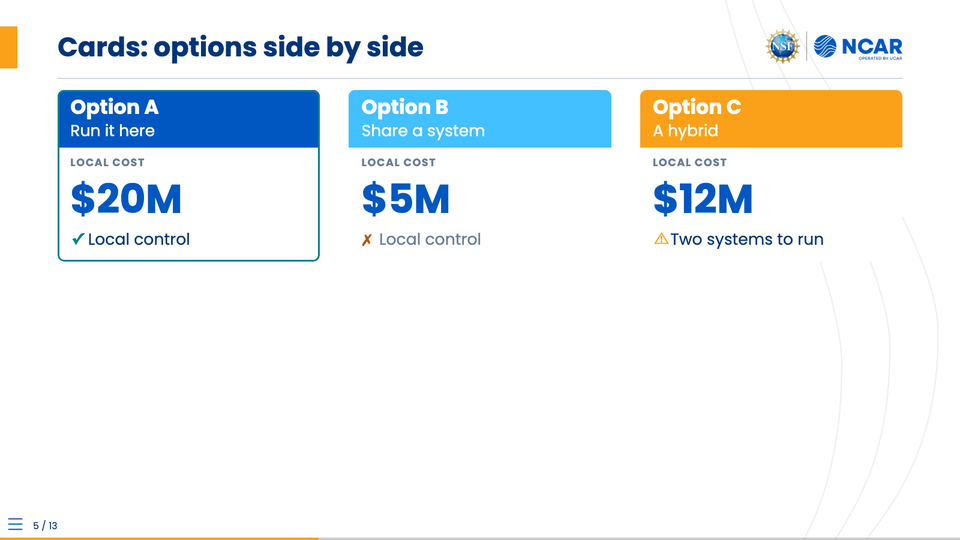
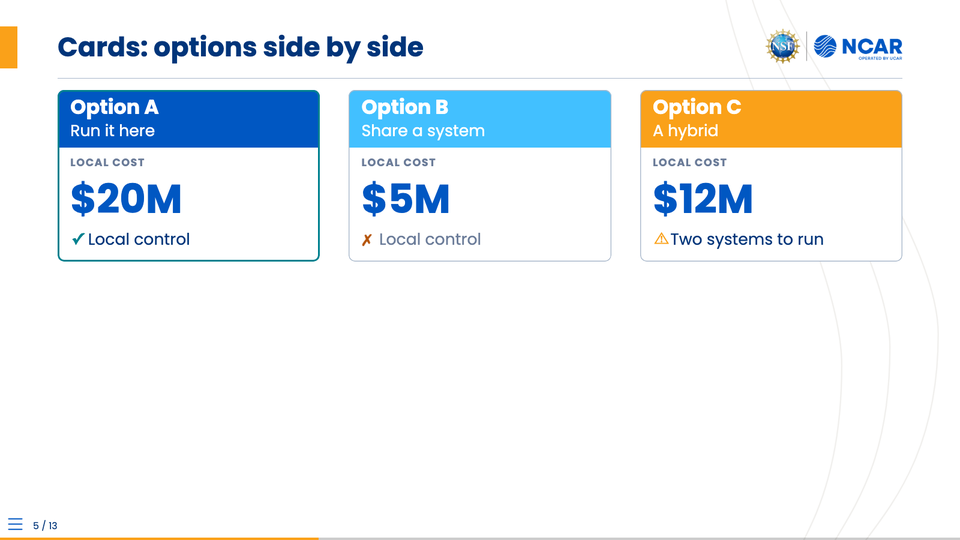
Every card's hairline: boxes.card.border, a livery-wide frame as the pick's outline
A card's body on a fill of the slide's own color (ncar's white) had no edge
below its head band. boxes.card.border (0.0016 of the slide's height, the title
hairline's width; 0 draws none) and border-color (the rule blend by default,
the title hairline's and the column rules') frame every card but a picked one
(its outline replaces it) and a solid one (its fill is its edge), drawn as the
pick's outline is in every format: pptx "Card n border" in the card's group,
HTML the card's overlay ring (::after), the PDF the tcolorbox frame (a pick=<n>
card's other steps keep the outline's reserved width as the fill's and draw the
hairline as a borderline at its edge). The schema, REFERENCE.md and every
livery rebuilt; docs/authoring.md, CLAUDE.md, CHANGELOG (Decks, Liveries).
Ben's ask (2026-10-24): livery-wide, on by default.

Tests: test_boxes.py (border a fraction, its color in the css and the sty);
test_grid.py test_cards (Card 2's border in border-color at its width, none on
the picked Card 1 or the solid Card 3).
The committed images that show cards are refreshed: the README's
decks/quickstart/screenshots/12-cards.png and overview.png (make screenshots;
the other shots differ only by the title's date and rasterization, kept) and
latex/sample.png (make previews). No Overfull line in the cookbook under any
variant.

Claude-Session: https://claude.ai/code/session_016ELREyRJPbKMgLhTztacRH

Changed region(s): [[0.6875, 0.4741, 0.9375, 0.5037], [0.375, 0.4741, 0.625, 0.5037]]

diff --git a/_extensions/engine/engine-revealjs.scss b/_extensions/engine/engine-revealjs.scss
@@ -477,14 +477,16 @@ $body-height: calc(var(--engine-body-bottom) - var(--engine-body-top));
   background: var(--engine-card-fill);
   border-radius: var(--engine-card-radius);
   overflow: hidden;
-  &.engine-pick::after {
+  &::after {   // every card's hairline (boxes.card.border), an overlay as the pick's outline
     content: "";
     position: absolute;
     inset: 0;
     border-radius: inherit;
-    box-shadow: inset 0 0 0 var(--engine-card-outline) var(--engine-card-outline-color);
+    box-shadow: inset 0 0 0 var(--engine-card-border) var(--engine-card-border-color);
     pointer-events: none;
   }
+  &.engine-solid::after { box-shadow: none; }
+  &.engine-pick::after { box-shadow: inset 0 0 0 var(--engine-card-outline) var(--engine-card-outline-color); }
   .engine-card-head {
     background: var(--engine-card-role);
     color: var(--engine-primary-text);

diff --git a/liveries/ncar/build/livery.css b/liveries/ncar/build/livery.css
@@ -131,6 +131,8 @@
   --engine-card-radius: 10.8px;
   --engine-card-outline: 3px;
   --engine-card-outline-color: #00818F;
+  --engine-card-border: 1.4px;
+  --engine-card-border-color: #A9B8CB;
   --engine-card-pad: 0.5em 0.8em;
   --engine-card-head-pad: 0.35em 0.8em;
   --engine-card-pad-x: 0.8em;

diff --git a/liveries/ncarucar/build/livery.css b/liveries/ncarucar/build/livery.css
@@ -131,6 +131,8 @@
   --engine-card-radius: 10.8px;
   --engine-card-outline: 3px;
   --engine-card-outline-color: #00818F;
+  --engine-card-border: 1.4px;
+  --engine-card-border-color: #A9B8CB;
   --engine-card-pad: 0.5em 0.8em;
   --engine-card-head-pad: 0.35em 0.8em;
   --engine-card-pad-x: 0.8em;

diff --git a/liveries/ucar/build/livery.css b/liveries/ucar/build/livery.css
@@ -131,6 +131,8 @@
   --engine-card-radius: 10.8px;
   --engine-card-outline: 3px;
   --engine-card-outline-color: #00818F;
+  --engine-card-border: 1.4px;
+  --engine-card-border-color: #A9B8CB;
   --engine-card-pad: 0.5em 0.8em;
   --engine-card-head-pad: 0.35em 0.8em;
   --engine-card-pad-x: 0.8em;

diff --git a/liveries/ucp/build/livery.css b/liveries/ucp/build/livery.css
@@ -131,6 +131,8 @@
   --engine-card-radius: 10.8px;
   --engine-card-outline: 3px;
   --engine-card-outline-color: #00818F;
+  --engine-card-border: 1.4px;
+  --engine-card-border-color: #A9B8CB;
   --engine-card-pad: 0.5em 0.8em;
   --engine-card-head-pad: 0.35em 0.8em;
   --engine-card-pad-x: 0.8em;

diff --git a/liveries/cu/build/livery.css b/liveries/cu/build/livery.css
@@ -142,6 +142,8 @@
   --engine-card-radius: 0px;
   --engine-card-outline: 3px;
   --engine-card-outline-color: #096FAE;
+  --engine-card-border: 1.4px;
+  --engine-card-border-color: #AAA8A3;
   --engine-card-pad: 0.5em 0.8em;
   --engine-card-head-pad: 0.35em 0.8em;
   --engine-card-pad-x: 0.8em;

diff --git a/liveries/nasa-ccp/build/livery.css b/liveries/nasa-ccp/build/livery.css
@@ -134,6 +134,8 @@
   --engine-card-radius: 0px;
   --engine-card-outline: 3px;
   --engine-card-outline-color: #002E62;
+  --engine-card-border: 1.4px;
+  --engine-card-border-color: #A8A9AA;
   --engine-card-pad: 0.5em 0.8em;
   --engine-card-head-pad: 0.35em 0.8em;
   --engine-card-pad-x: 0.8em;

diff --git a/liveries/nasa-dark/build/livery.css b/liveries/nasa-dark/build/livery.css
@@ -146,6 +146,8 @@
   --engine-card-radius: 0px;
   --engine-card-outline: 3px;
   --engine-card-outline-color: #00B0F0;
+  --engine-card-border: 1.4px;
+  --engine-card-border-color: #606367;
   --engine-card-pad: 0.5em 0.8em;
   --engine-card-head-pad: 0.35em 0.8em;
   --engine-card-pad-x: 0.8em;

diff --git a/liveries/nasa-jsc-eg/build/livery.css b/liveries/nasa-jsc-eg/build/livery.css
@@ -141,6 +141,8 @@
   --engine-card-radius: 0px;
   --engine-card-outline: 3px;
   --engine-card-outline-color: #00BC71;
+  --engine-card-border: 1.4px;
+  --engine-card-border-color: #E1E1E1;
   --engine-card-pad: 0.5em 0.8em;
   --engine-card-head-pad: 0.35em 0.8em;
   --engine-card-pad-x: 0.8em;

diff --git a/liveries/nasa/build/livery.css b/liveries/nasa/build/livery.css
@@ -146,6 +146,8 @@
   --engine-card-radius: 0px;
   --engine-card-outline: 3px;
   --engine-card-outline-color: #0B6BCB;
+  --engine-card-border: 1.4px;
+  --engine-card-border-color: #B0B1B2;
   --engine-card-pad: 0.5em 0.8em;
   --engine-card-head-pad: 0.35em 0.8em;
   --engine-card-pad-x: 0.8em;

diff --git a/liveries/nsi/build/livery.css b/liveries/nsi/build/livery.css
@@ -146,6 +146,8 @@
   --engine-card-radius: 0px;
   --engine-card-outline: 3px;
   --engine-card-outline-color: #096FAE;
+  --engine-card-border: 1.4px;
+  --engine-card-border-color: #AAA8A3;
   --engine-card-pad: 0.5em 0.8em;
   --engine-card-head-pad: 0.35em 0.8em;
   --engine-card-pad-x: 0.8em;

diff --git a/_extensions/engine/livery_build.py b/_extensions/engine/livery_build.py
@@ -134,6 +134,7 @@ BOXES = {
     "note": {"gap": 0.3},   # a ::: note under a figure or table: its distance under it, em of the caption type
     # (primary-contrast: a thin bar must read on the background, and secondary does not on every livery)
     "card": {"fill": "background", "radius": 0, "outline": 0.0033, "outline-color": "highlight",
+             "border": 0.0016, "border-color": "rule",   # every card's hairline (a pick's outline replaces it; none on a solid card)
              "pad": [0.5, 0.8], "head-pad": [0.35, 0.8],
              "roles": ["primary", "secondary", "accent"]},   # a card without role=: by its place in the row
     "strip": {"tint": 0.18, "pad": [0.3, 0.8], "gap": 0.3},   # 0.18: caution-fill's share (BLENDS), one tint recipe;
@@ -159,7 +160,7 @@ BOXES = {
     "footnote": {"rule": 0.0022, "rule-length": 0.075, "rule-color": "rule", "width": 0.6, "gap": 0.55, "hang": 0.9, "step": 0.3},
 }
 # a box's color keys (a role, a blend, a palette name or a hex; null, where the schema allows it, for none)
-BOX_COLORS = {"lead": ("fill", "bar-color"), "quote": ("bar-color",), "agenda": ("number-color", "current-color"), "card": ("fill", "outline-color"), "status": ("done", "warn", "fail"),
+BOX_COLORS = {"lead": ("fill", "bar-color"), "quote": ("bar-color",), "agenda": ("number-color", "current-color"), "card": ("fill", "outline-color", "border-color"), "status": ("done", "warn", "fail"),
               "rail": ("line-color", "fill"), "gallery": ("fill",), "footnote": ("rule-color",)}
 # installed-fonts faces, and how a bare family string names them (full name, PostScript name)
 FACES = {"regular": ("", ""), "bold": (" Bold", "-Bold"), "italic": (" Italic", "-Italic"),
@@ -1319,6 +1320,7 @@ def emit_css_boxes(livery: dict, px) -> list[str]:
         p.append(f'--engine-quote-family: "{quote["family"]}";')
     p += [f"--engine-card-fill: {card['fill']};", f"--engine-card-radius: {px(card['radius'])};",
           f"--engine-card-outline: {px(card['outline'])};", f"--engine-card-outline-color: {card['outline-color']};",
+          f"--engine-card-border: {px(card['border'])};", f"--engine-card-border-color: {card['border-color']};",
           f"--engine-card-pad: {pad(card['pad'])};", f"--engine-card-head-pad: {pad(card['head-pad'])};",
           f"--engine-card-pad-x: {card['pad'][1]:g}em;"]   # a strip reaches the card's edges by it
     p += [f"--engine-strip-tint: {round(strip['tint'] * 100, 2):g}%;", f"--engine-strip-pad: {pad(strip['pad'])};",
